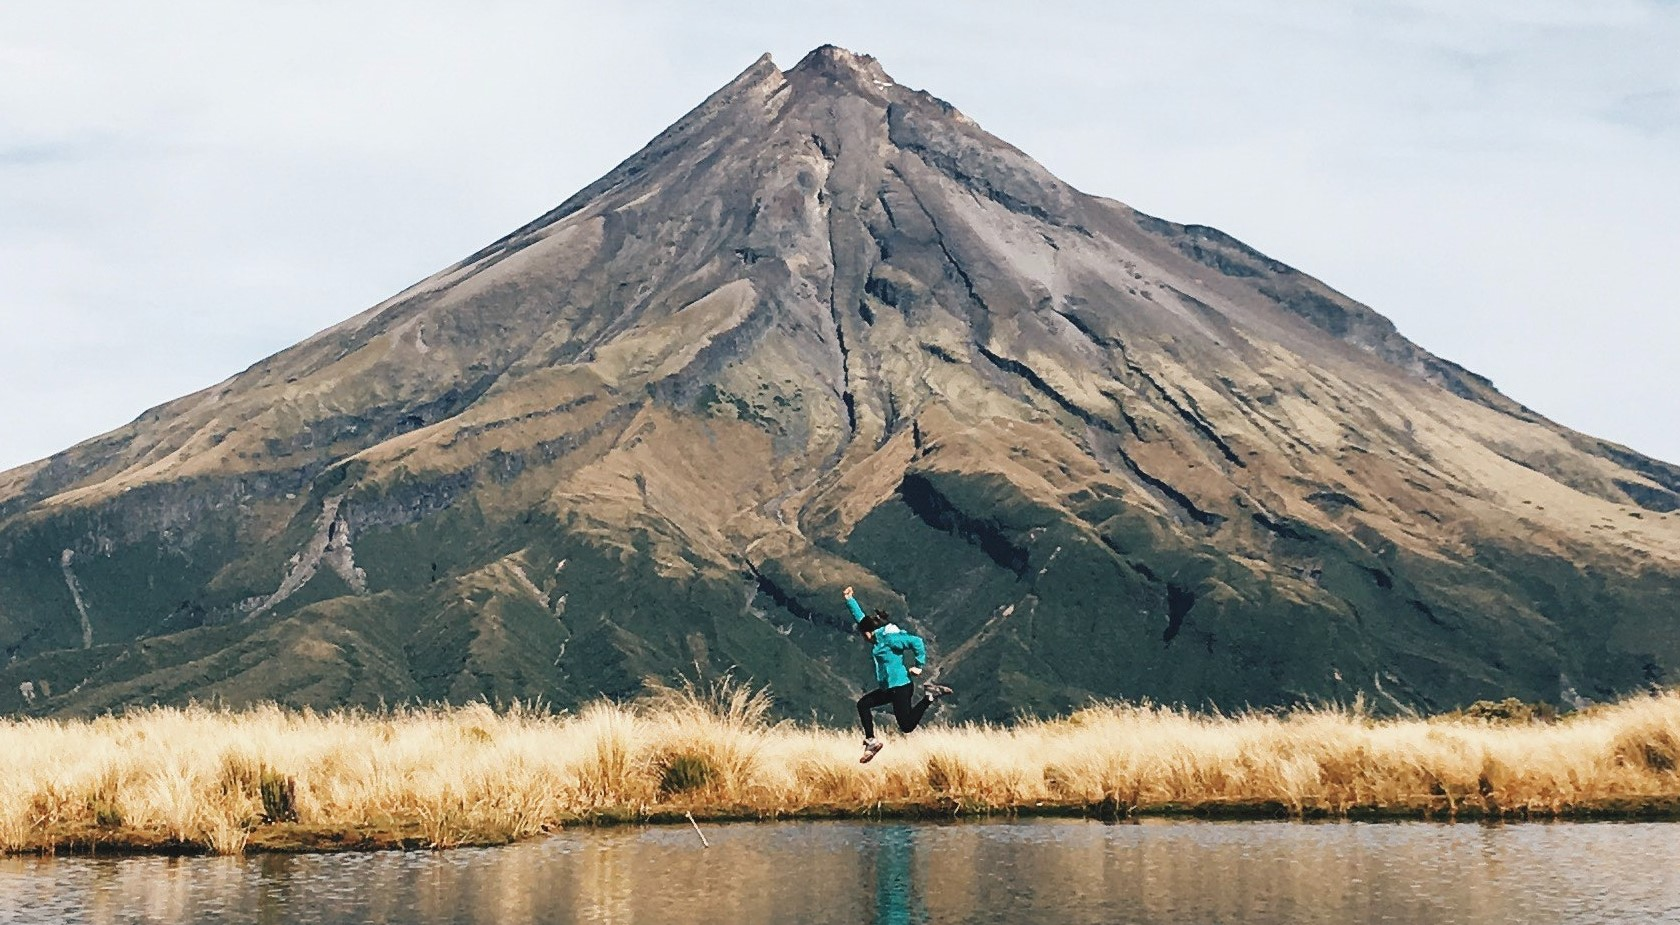
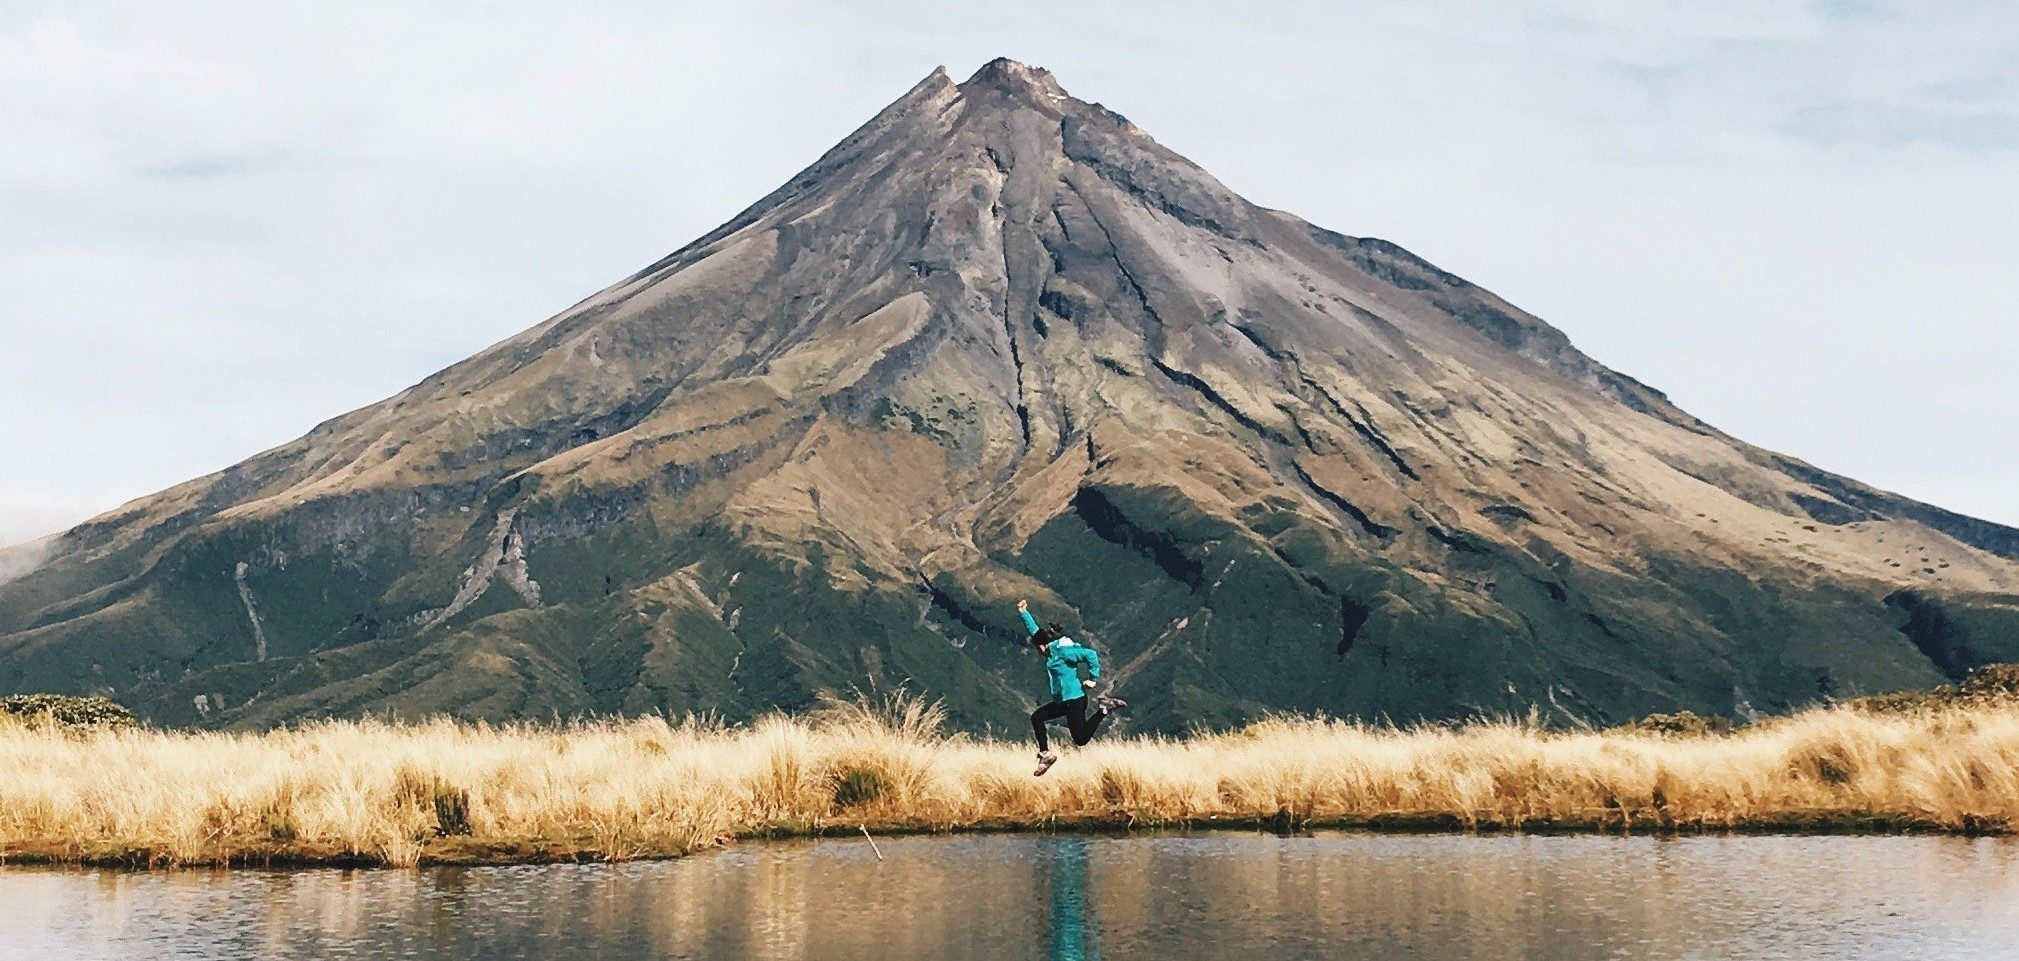
hero view mobile

diff --git a/components/organisms/Hero.js b/components/organisms/Hero.js
@@ -4,25 +4,21 @@ export default function Hero() {
     <section
       id="hero"
       style={{ backgroundImage: "url('montagne.jpg')" }}
-      className="relative w-full bg-center bg-no-repeat bg-hero"
+      className="relative w-full bg-top bg-no-repeat bg-big-cover md:bg-cover"
     >
-      <div className="absolute z-10 w-full h-full" />
-      <div className="relative z-20">
-        <div className="space-y-10 font-semibold text-center text-white pt-96 pb-96">
-          <p className="w-11/12 mx-auto mb-6 text-xl text-center sm:text-2xl md:text-2xl">
-            Tera Campus
-          </p>
-          <p className="w-11/12 mx-auto mb-6 text-xl text-center sm:text-2xl md:text-2xl">
-            École supérieure d&apos;informatique
-          </p>
-          <div className="space-y-4">
-            <p className="w-11/12 mx-auto mb-6 text-xl text-center sm:text-2xl md:text-2xl">
-              Une pédagogie innovante avec un cursus
-            </p>
-            <p className="w-11/12 mx-auto mb-6 text-xl text-center sm:text-2xl md:text-2xl">
-              100% télé-présentiel
-            </p>
-          </div>
+      <div className="pt-12 space-y-4 font-semibold text-center text-white pb-36">
+        <p className="mx-auto text-center max-content">Tera Campus</p>
+        <p className="mx-auto text-center max-content">
+          École supérieure d&apos;informatique
+        </p>
+        <div className="">
+          <span className="w-11/12 mx-autotext-center">
+            Une pédagogie innovante avec un cursus
+          </span>
+          <span className="md:hidden">&nbsp;</span>
+          <span className="w-11/12 mx-auto text-center">
+            100% télé-présentiel
+          </span>
         </div>
       </div>
     </section>

diff --git a/tailwind.config.js b/tailwind.config.js
@@ -14,7 +14,6 @@ module.exports = {
       auto: "auto",
       cover: "cover",
       contain: "contain",
-      hero: "190%",
       "big-cover": "200%",
     },
     boxShadow: {
